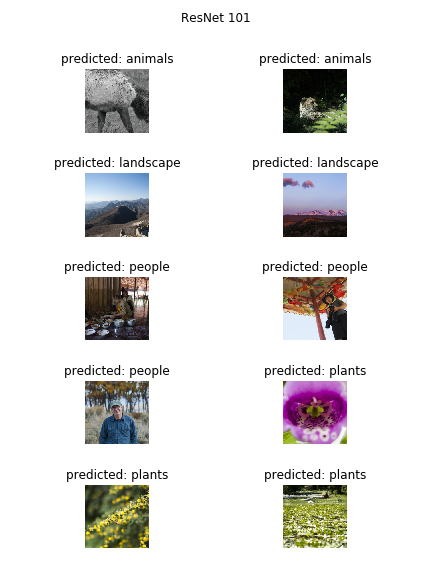
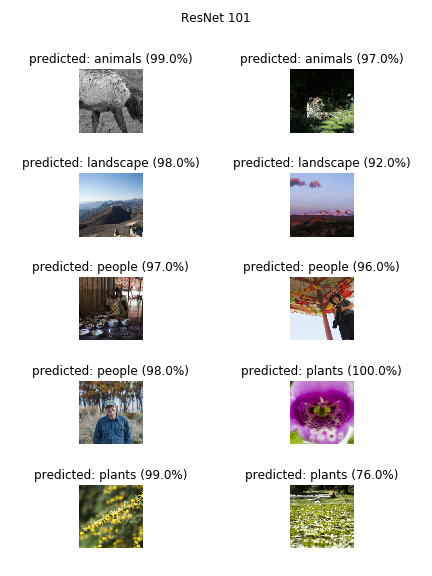
updating visualization to include prediction percent

diff --git a/Photo_Classification_Capstone/python/Visualize_Models.py b/Photo_Classification_Capstone/python/Visualize_Models.py
@@ -6,6 +6,7 @@ Created on Sun Jun 24 10:44:44 2018
 """
 import torch
 import torch.nn as nn
+import torch.nn.functional as F
 from torchvision import transforms, datasets, models
 import numpy as np
 import matplotlib.pyplot as plt
@@ -103,23 +104,27 @@ if __name__ == "__main__":
     class_names = test_dataset.classes
     
     #create lists of models, model states to load, and figure titles for plotting and exporting
-    models = [LogisticRegressionModel(3*224*224, 4), 
+    models = [LogisticRegressionModel(3*224*224, 4),
               FeedforwardNeuralNetModel(3*224*224, 100, 4), 
               CNN_Model(), 
-              models.resnet101(pretrained=False, num_classes = 4)]
+              models.resnet101(pretrained=False, num_classes = 4)
+             ]
+
     
     model_states = ['Saved_Models\\PhotoClass_Logreg_Model.pkl',
                     'Saved_Models\\PhotoClass_FF_NerualNet_Model.pkl', 
                     'Saved_Models\\PhotoClass_Simple_CNN_Model.pkl',
-                    'Saved_Models\\PhotoClass_ResNet101_TL.pkl']
+                    'Saved_Models\\PhotoClass_ResNet101_TL.pkl'
+                   ]
+
     
-    figure_titles = ['Logistic Regression', 'Feed Forward Neural Net', 'Simple Convolutional NN', 'ResNet 101']
-    figure_names = ['predictions/log_reg.png', 'predictions/ff_nn.png', 'predictions/Simple_CNN.png', 'predictions/ResNet.png']
+    figure_titles = ['Logistic Regression', 'Feed Forward Neural Net', 'Simple Convolutional NN', 'ResNet 101']#
+    figure_names = ['predictions/log_reg.png', 'predictions/ff_nn.png', 'predictions/Simple_CNN.png', 'predictions/ResNet.png']#
     
     models_2d = ['LogisticRegressionModel', 'FeedforwardNeuralNetModel']
     
     #loop over each model, load saved weights, evaluate test images, plot images with predicted labels
-    for model, state, fig_title, fig_name in zip(models, model_states, figure_titles, figure_names):
+    for model, state, fig_title, fig_name in zip(models, model_states, figure_titles, figure_names):    
         print(model.__class__.__name__)
         model.load_state_dict(torch.load(state))
         model.eval()
@@ -133,12 +138,19 @@ if __name__ == "__main__":
                 output = model(images_trans)
             else:                
                 output = model(images)
-            _, predicted = torch.max(output.data, 1)
             
+            #run output through softmax to get prediction probabilities
+            soft_out = F.softmax(output)            
+            prob, predicted = torch.max(soft_out.data, 1)            
+            
+            #count the number of correct predictions
             correct += (predicted == labels).numpy().sum()
             
+            #get predicted labels and probabilities
             pred_labels = [class_names[pred] for pred in predicted]
+            pred_probs = [np.round(p.numpy(),2) for p in prob]
             
+            #plot each image with the predicted label and probability of that prediction
             images_so_far = 0
             fig = plt.figure(figsize=(6, 8))
             for j in range(images.size()[0]):
@@ -151,14 +163,18 @@ if __name__ == "__main__":
                 inp = np.clip(inp, 0, 1)
                 ax.imshow(inp)
                 ax.axis('off')
-                ax.set_title('predicted: {}'.format(class_names[predicted[j]]))
+                pred_label = pred_labels[j] #class_names[predicted[j]]
+                pred_prob = np.round(pred_probs[j] * 100,2)
+                ax.set_title('predicted: {} ({}%)'.format(pred_label, pred_prob))
             
-            
+            #save plots to file
             fig.suptitle(fig_title)    
             plt.tight_layout()    
             fig.subplots_adjust(top=0.88)
             plt.savefig(fig_name)
             plt.close()
+            
+            
             #print true labels, predicted labels and number correct
             print(img_labels)
             print(pred_labels)
